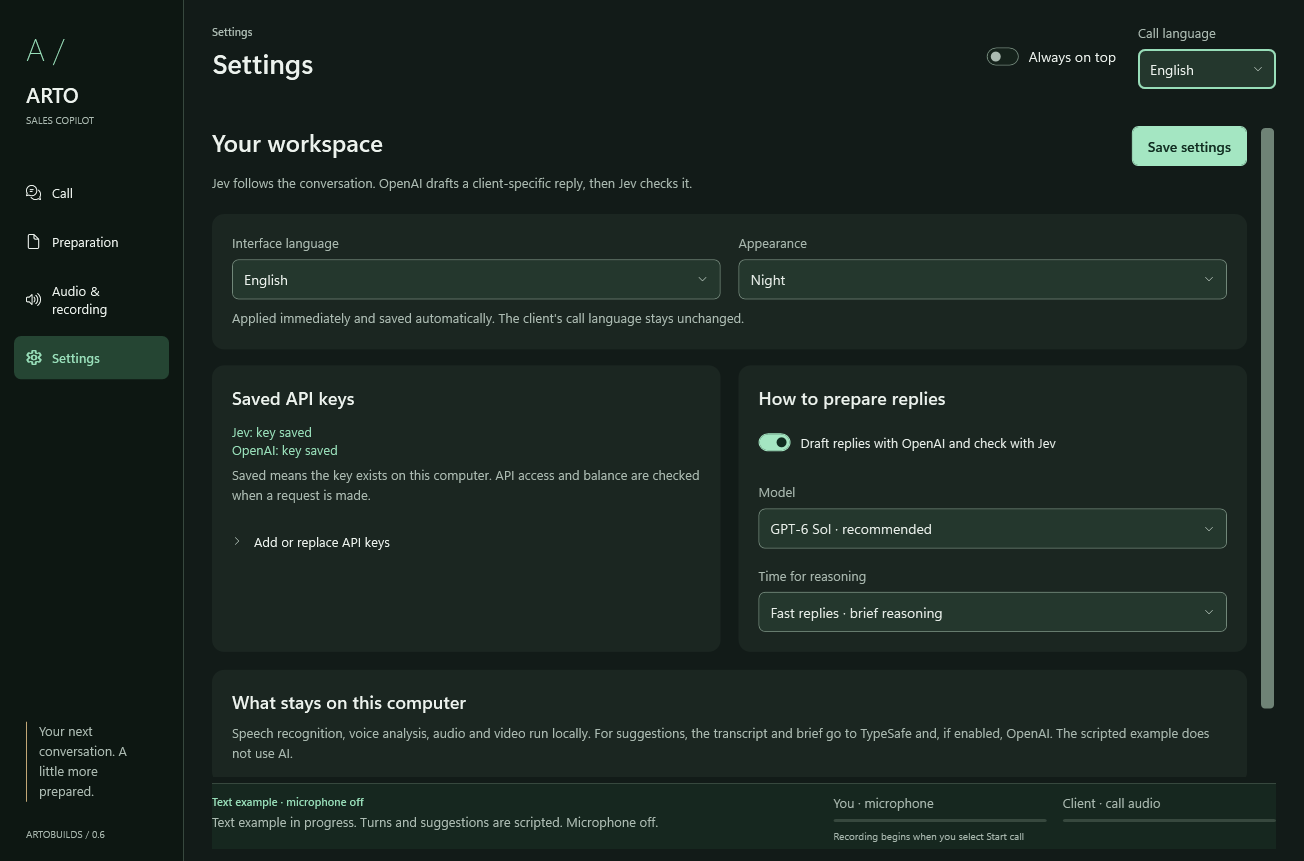
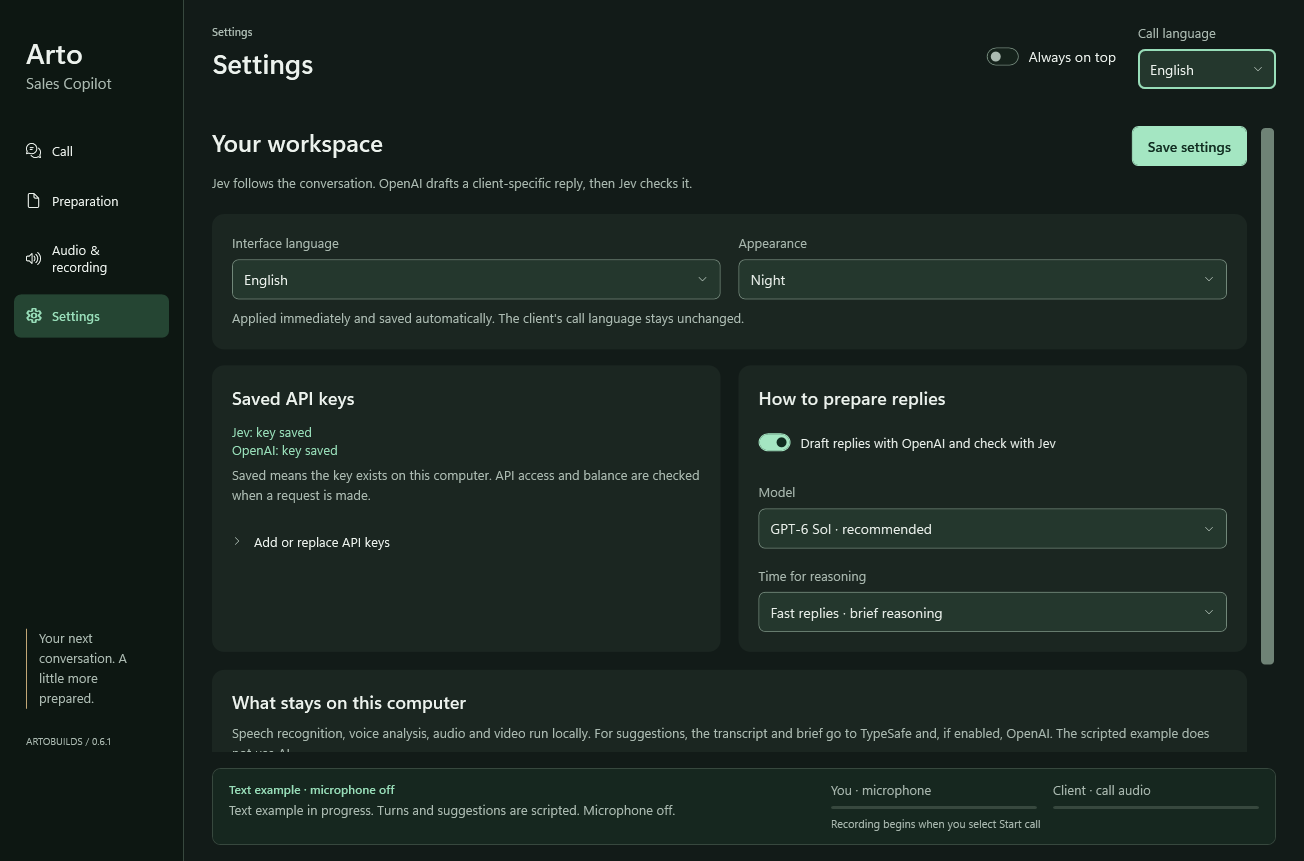
Clarify call disclosures and fix footer spacing

diff --git a/MainWindow.xaml b/MainWindow.xaml
@@ -4,10 +4,10 @@
  Background="{DynamicResource Bg}" Foreground="{DynamicResource Ink}" FontFamily="{StaticResource BodyFont}" FontSize="14"
  WindowStartupLocation="CenterScreen" Closing="OnClosing" SizeChanged="WindowSizeChanged" Loaded="SignatureLoaded">
 <Grid x:Name="RootLayout" Background="{DynamicResource Bg}">
+ <Grid.RowDefinitions><RowDefinition/><RowDefinition Height="Auto"/></Grid.RowDefinitions>
  <TabControl x:Name="Tabs" TabStripPlacement="Left" SelectionChanged="NavigationChanged">
   <TabItem Tag="&#xE8F2;" Header="{DynamicResource L010}" AutomationProperties.Name="{DynamicResource L010}">
-   <Grid x:Name="CallLayout">
-    <Grid.RowDefinitions><RowDefinition Height="Auto"/><RowDefinition/><RowDefinition Height="Auto"/><RowDefinition Height="Auto"/></Grid.RowDefinitions>
+   <Grid><Grid.RowDefinitions><RowDefinition Height="Auto"/><RowDefinition/></Grid.RowDefinitions>
     <Grid Margin="0,0,0,18"><Grid.ColumnDefinitions><ColumnDefinition/><ColumnDefinition Width="Auto"/></Grid.ColumnDefinitions>
      <StackPanel Orientation="Horizontal">
       <Button x:Name="LiveButton" AutomationProperties.Name="{DynamicResource L014}" Click="StartLive" Style="{StaticResource Primary}"><StackPanel Orientation="Horizontal"><TextBlock Text="&#xE768;" Style="{StaticResource Icon}" FontSize="12" Margin="0,0,9,0"/><TextBlock Text="{DynamicResource L014}"/></StackPanel></Button>
@@ -19,7 +19,10 @@
       <Button Content="{DynamicResource L013}" Click="ExportNotes" Style="{StaticResource Quiet}" Margin="0"/>
      </StackPanel>
     </Grid>
-    <Grid Grid.Row="1">
+    <ScrollViewer x:Name="CallViewport" Grid.Row="1" VerticalScrollBarVisibility="Auto" HorizontalScrollBarVisibility="Disabled">
+    <Grid x:Name="CallLayout" Height="{Binding ActualHeight,ElementName=CallViewport}">
+     <Grid.RowDefinitions><RowDefinition/><RowDefinition Height="Auto"/><RowDefinition Height="Auto"/></Grid.RowDefinitions>
+    <Grid>
      <Grid.ColumnDefinitions><ColumnDefinition Width="1.18*"/><ColumnDefinition Width="26"/><ColumnDefinition/></Grid.ColumnDefinitions>
      <Border x:Name="AdviceCard" Style="{StaticResource Card}" Background="{DynamicResource AdvicePanel}" BorderBrush="{DynamicResource AdviceBorder}" Padding="28">
       <DockPanel>
@@ -48,13 +51,30 @@
       </ScrollViewer>
      </DockPanel>
     </Grid>
-        <Border x:Name="VoiceCard" Grid.Row="2" Style="{StaticResource Card}" Margin="0,18,0,0" Padding="0,14,0,0" Background="Transparent" CornerRadius="0" BorderThickness="0,1,0,0" BorderBrush="{DynamicResource VoiceBorder}"><StackPanel><DockPanel><StackPanel DockPanel.Dock="Right" Orientation="Horizontal"><ComboBox x:Name="VoiceSpeakerBox" Width="140" SelectedIndex="0" SelectionChanged="VoiceSpeakerChanged" AutomationProperties.Name="{DynamicResource L031}" MinHeight="34" Margin="0,0,8,0"><ComboBoxItem x:Name="ClientVoiceItem" Content="{DynamicResource L032}" Tag="client"/><ComboBoxItem x:Name="RepVoiceItem" Content="{DynamicResource L033}" Tag="rep"/></ComboBox><Button x:Name="ResetVoiceButton" Content="{DynamicResource L034}" Click="ResetVoice" IsEnabled="False" FontSize="12" Padding="10,6" MinHeight="34" Margin="0"/></StackPanel><TextBlock x:Name="VoiceHeading" Text="{DynamicResource L035}" FontSize="17" FontWeight="SemiBold" VerticalAlignment="Center"/></DockPanel><TextBlock x:Name="VoiceStatus" Text="{DynamicResource L036}" Style="{StaticResource Help}" Margin="0,7,0,10" AutomationProperties.LiveSetting="Polite"/>
+        <Border x:Name="VoiceCard" Grid.Row="1" Style="{StaticResource Card}" Margin="0,18,0,0" Padding="0,14,0,0" Background="Transparent" CornerRadius="0" BorderThickness="0,1,0,0" BorderBrush="{DynamicResource VoiceBorder}"><StackPanel><DockPanel><StackPanel DockPanel.Dock="Right" Orientation="Horizontal"><ComboBox x:Name="VoiceSpeakerBox" Width="140" SelectedIndex="0" SelectionChanged="VoiceSpeakerChanged" AutomationProperties.Name="{DynamicResource L031}" MinHeight="34" Margin="0,0,8,0"><ComboBoxItem x:Name="ClientVoiceItem" Content="{DynamicResource L032}" Tag="client"/><ComboBoxItem x:Name="RepVoiceItem" Content="{DynamicResource L033}" Tag="rep"/></ComboBox><Button x:Name="ResetVoiceButton" Content="{DynamicResource L034}" Click="ResetVoice" IsEnabled="False" FontSize="12" Padding="10,6" MinHeight="34" Margin="0"/></StackPanel><TextBlock x:Name="VoiceHeading" Text="{DynamicResource L035}" FontSize="17" FontWeight="SemiBold" VerticalAlignment="Center"/></DockPanel><TextBlock x:Name="VoiceStatus" Text="{DynamicResource L036}" Style="{StaticResource Help}" Margin="0,7,0,10" AutomationProperties.LiveSetting="Polite"/>
           <UniformGrid Columns="4"><StackPanel Margin="0,0,12,0"><TextBlock x:Name="VoicePitchLabel" Text="{DynamicResource L037}" Style="{StaticResource Help}" ToolTip="{DynamicResource L038}"/><TextBlock x:Name="VoicePitchText" Text="—" FontSize="18" FontWeight="SemiBold" Margin="0,3,0,0"/></StackPanel><StackPanel Margin="0,0,12,0"><TextBlock x:Name="VoiceLevelLabel" Text="{DynamicResource L039}" Style="{StaticResource Help}" ToolTip="{DynamicResource L040}"/><TextBlock x:Name="VoiceLevelText" Text="—" FontSize="18" FontWeight="SemiBold" Margin="0,3,0,0"/></StackPanel><StackPanel Margin="0,0,12,0"><TextBlock x:Name="VoicePaceLabel" Text="{DynamicResource L041}" Style="{StaticResource Help}"/><TextBlock x:Name="VoicePaceText" Text="—" FontSize="18" FontWeight="SemiBold" Margin="0,3,0,0"/></StackPanel><StackPanel><TextBlock x:Name="VoicePauseLabel" Text="{DynamicResource L042}" Style="{StaticResource Help}"/><TextBlock x:Name="VoicePauseText" Text="—" FontSize="18" FontWeight="SemiBold" Margin="0,3,0,0"/></StackPanel></UniformGrid>
           <DockPanel Margin="0,9,0,0"><TextBlock x:Name="VoicePersonText" DockPanel.Dock="Right" Foreground="{DynamicResource Muted}" FontSize="11"/><TextBlock x:Name="VoiceNote" Text="{DynamicResource L043}" Foreground="{DynamicResource Muted}" FontSize="11" Margin="0,0,16,0"/></DockPanel>
         </StackPanel></Border>
 
-        <Grid Grid.Row="3" Margin="0,8,0,0"><Grid.ColumnDefinitions><ColumnDefinition/><ColumnDefinition/></Grid.ColumnDefinitions><Expander x:Name="CoverageExpander" Header="{DynamicResource L044}" Margin="0,0,16,0"><ScrollViewer MaxHeight="95" VerticalScrollBarVisibility="Auto"><WrapPanel x:Name="SignalsPanel" Margin="0,8,0,0"/></ScrollViewer></Expander><Expander x:Name="ManualExpander" Grid.Column="1" Header="{DynamicResource L045}"><DockPanel Margin="0,8,0,0"><Button Content="{DynamicResource L046}" Click="SendText" DockPanel.Dock="Right" FontSize="12" Margin="8,0,0,0"/><ComboBox x:Name="SpeakerBox" SelectedIndex="0" Width="95" DockPanel.Dock="Left" Margin="0,0,8,0" AutomationProperties.Name="{DynamicResource L047}"><ComboBoxItem Content="{DynamicResource L048}" Tag="client"/><ComboBoxItem Content="{DynamicResource L049}" Tag="rep"/></ComboBox><TextBox x:Name="ManualText" MaxLength="6000" MaxHeight="80" AutomationProperties.Name="{DynamicResource L050}" ToolTip="{DynamicResource L051}" KeyDown="ManualKeyDown"/></DockPanel></Expander></Grid>
+    <Grid Grid.Row="2" Margin="0,12,0,0">
+     <Grid.ColumnDefinitions><ColumnDefinition/><ColumnDefinition/></Grid.ColumnDefinitions>
+     <Expander x:Name="CoverageExpander" Header="{DynamicResource L044}" Style="{StaticResource ActionDisclosure}" Margin="0,0,16,0" VerticalAlignment="Top" Expanded="CallDisclosureChanged" Collapsed="CallDisclosureChanged">
+      <ScrollViewer MaxHeight="95" VerticalScrollBarVisibility="Auto"><Grid Margin="4,4,4,0">
+       <TextBlock x:Name="TopicsEmptyText" Text="{DynamicResource S007}" Style="{StaticResource Help}"/>
+       <WrapPanel x:Name="SignalsPanel"/>
+      </Grid></ScrollViewer>
+     </Expander>
+     <Expander x:Name="ManualExpander" Grid.Column="1" Header="{DynamicResource L045}" Style="{StaticResource ActionDisclosure}" VerticalAlignment="Top" Expanded="CallDisclosureChanged" Collapsed="CallDisclosureChanged">
+      <DockPanel Margin="0,4,0,0">
+       <Button Content="{DynamicResource L046}" Click="SendText" DockPanel.Dock="Right" FontSize="12" Margin="8,0,0,0"/>
+       <ComboBox x:Name="SpeakerBox" SelectedIndex="0" Width="95" DockPanel.Dock="Left" Margin="0,0,8,0" AutomationProperties.Name="{DynamicResource L047}"><ComboBoxItem Content="{DynamicResource L048}" Tag="client"/><ComboBoxItem Content="{DynamicResource L049}" Tag="rep"/></ComboBox>
+       <TextBox x:Name="ManualText" MaxLength="6000" MaxHeight="80" AutomationProperties.Name="{DynamicResource L050}" ToolTip="{DynamicResource L051}" KeyDown="ManualKeyDown"/>
+      </DockPanel>
+     </Expander>
+    </Grid>
 
+   </Grid>
+   </ScrollViewer>
    </Grid>
   </TabItem>
     <TabItem Tag="&#xE8A5;" Header="{DynamicResource L052}" AutomationProperties.Name="{DynamicResource L053}"><ScrollViewer VerticalScrollBarVisibility="Auto"><StackPanel Margin="0,0,12,0"><DockPanel><Button Content="{DynamicResource L054}" Click="SaveBrief" Style="{StaticResource Primary}" DockPanel.Dock="Right" Margin="16,0,0,0"/><TextBlock Text="{DynamicResource L055}" Style="{StaticResource Heading}"/></DockPanel><TextBlock Text="{DynamicResource L056}" Style="{StaticResource Help}" Margin="0,8,0,20"/>
@@ -126,15 +146,16 @@
    <TextBlock x:Name="PageTitle" Text="{Binding Text,ElementName=BriefTitle}" FontFamily="{StaticResource DisplayFont}" FontSize="27" FontWeight="SemiBold" Margin="0,6,0,0" TextTrimming="CharacterEllipsis" TextWrapping="NoWrap" ToolTip="{Binding Text,ElementName=BriefTitle}"/>
   </StackPanel>
  </DockPanel>
- <Border x:Name="TopStatusBox" VerticalAlignment="Bottom" Background="{DynamicResource StatusPanel}" BorderBrush="{DynamicResource Line}" BorderThickness="0,1,0,0" Padding="0,12,0,0" Margin="212,0,28,16">
+ <Border Grid.Row="1" HorizontalAlignment="Left" Width="184" Background="{DynamicResource Rail}" BorderBrush="{DynamicResource Line}" BorderThickness="0,0,1,0"/>
+ <Border x:Name="TopStatusBox" Grid.Row="1" Background="{DynamicResource StatusPanel}" BorderBrush="{DynamicResource Line}" BorderThickness="1" CornerRadius="8" Padding="16,12" Margin="212,0,28,16">
   <Grid><Grid.ColumnDefinitions><ColumnDefinition Width="1.35*"/><ColumnDefinition Width="24"/><ColumnDefinition/></Grid.ColumnDefinitions>
-   <StackPanel><TextBlock x:Name="ModeText" Text="{DynamicResource L009}" Foreground="{DynamicResource Accent}" FontWeight="SemiBold" FontSize="11"/><TextBlock x:Name="StatusText" Text="{DynamicResource L008}" AutomationProperties.LiveSetting="Polite" Style="{StaticResource Help}" Margin="0,4,0,0" MaxHeight="36" TextTrimming="CharacterEllipsis"/></StackPanel>
+   <StackPanel><TextBlock x:Name="ModeText" Text="{DynamicResource L009}" Foreground="{DynamicResource Accent}" FontWeight="SemiBold" FontSize="12"/><TextBlock x:Name="StatusText" Text="{DynamicResource L008}" AutomationProperties.LiveSetting="Polite" Style="{StaticResource Help}" Margin="0,4,0,0" MaxHeight="60" TextTrimming="CharacterEllipsis"/></StackPanel>
    <StackPanel Grid.Column="2">
     <Grid><Grid.ColumnDefinitions><ColumnDefinition/><ColumnDefinition Width="16"/><ColumnDefinition/></Grid.ColumnDefinitions>
      <StackPanel><TextBlock Text="{DynamicResource L017}" Style="{StaticResource Help}" Margin="0,0,0,5"/><ProgressBar x:Name="MicMeter" Height="3" Maximum="1" Background="{DynamicResource Line}" Foreground="{DynamicResource Accent}" AutomationProperties.Name="{DynamicResource L018}"/></StackPanel>
      <StackPanel Grid.Column="2"><TextBlock Text="{DynamicResource L019}" Style="{StaticResource Help}" Margin="0,0,0,5"/><ProgressBar x:Name="OutputMeter" Height="3" Maximum="1" Background="{DynamicResource Line}" Foreground="{DynamicResource AudioAccent}" AutomationProperties.Name="{DynamicResource L020}"/></StackPanel>
     </Grid>
-    <TextBlock x:Name="SessionMeta" Text="{DynamicResource L021}" Style="{StaticResource Help}" FontSize="10" Margin="0,7,0,0" MaxHeight="30"/>
+    <TextBlock x:Name="SessionMeta" Text="{DynamicResource L021}" Style="{StaticResource Help}" FontSize="11" LineHeight="16" Margin="0,7,0,0" MaxHeight="32" TextTrimming="CharacterEllipsis"/>
    </StackPanel>
   </Grid>
  </Border>

diff --git a/App.xaml b/App.xaml
@@ -49,11 +49,35 @@
 <ContentPresenter ContentSource="Header"/>
 </ToggleButton><ContentPresenter x:Name="ExpandSite" Visibility="Collapsed" ContentSource="Content" Margin="0,4,0,0"/>
 </StackPanel><ControlTemplate.Triggers><Trigger Property="IsExpanded" Value="True"><Setter TargetName="ExpandSite" Property="Visibility" Value="Visible"/></Trigger></ControlTemplate.Triggers></ControlTemplate></Setter.Value></Setter></Style>
+  <Style x:Key="ActionDisclosure" TargetType="Expander" BasedOn="{StaticResource {x:Type Expander}}">
+   <Setter Property="Template"><Setter.Value><ControlTemplate TargetType="Expander"><StackPanel>
+    <ToggleButton x:Name="HeaderSite" Content="{TemplateBinding Header}" MinHeight="44" Cursor="Hand"
+     AutomationProperties.Name="{Binding Header,RelativeSource={RelativeSource TemplatedParent}}"
+     IsChecked="{Binding IsExpanded,RelativeSource={RelativeSource TemplatedParent},Mode=TwoWay}"
+     Foreground="{TemplateBinding Foreground}" FocusVisualStyle="{StaticResource FocusVisual}">
+     <ToggleButton.Template><ControlTemplate TargetType="ToggleButton">
+      <Border x:Name="HeaderChrome" Background="{DynamicResource Input}" BorderBrush="{DynamicResource ControlLine}" BorderThickness="1" CornerRadius="7" Padding="12,10">
+       <Grid><Grid.ColumnDefinitions><ColumnDefinition/><ColumnDefinition Width="Auto"/><ColumnDefinition Width="12"/></Grid.ColumnDefinitions>
+        <ContentPresenter VerticalAlignment="Center" Margin="0,0,10,0" TextElement.FontWeight="SemiBold"/>
+        <TextBlock x:Name="ActionText" Grid.Column="1" Text="{DynamicResource S005}" Foreground="{DynamicResource Muted}" FontSize="12" VerticalAlignment="Center" Margin="0,0,10,0"/>
+        <Path x:Name="Arrow" Grid.Column="2" Data="M 1,1 L 6,6 L 11,1" Stroke="{DynamicResource Ink}" StrokeThickness="1.6" Width="12" Height="8" VerticalAlignment="Center" RenderTransformOrigin="0.5,0.5"/>
+       </Grid>
+      </Border>
+      <ControlTemplate.Triggers>
+       <Trigger Property="IsChecked" Value="True"><Setter TargetName="ActionText" Property="Text" Value="{DynamicResource S006}"/><Setter TargetName="HeaderChrome" Property="Background" Value="{DynamicResource Selected}"/><Setter TargetName="Arrow" Property="RenderTransform"><Setter.Value><RotateTransform Angle="180"/></Setter.Value></Setter></Trigger>
+       <Trigger Property="IsMouseOver" Value="True"><Setter TargetName="HeaderChrome" Property="Background" Value="{DynamicResource Hover}"/><Setter TargetName="HeaderChrome" Property="BorderBrush" Value="{DynamicResource Accent}"/></Trigger>
+       <Trigger Property="IsKeyboardFocused" Value="True"><Setter TargetName="HeaderChrome" Property="BorderBrush" Value="{DynamicResource FocusRing}"/></Trigger>
+      </ControlTemplate.Triggers>
+     </ControlTemplate></ToggleButton.Template>
+    </ToggleButton>
+    <ContentPresenter x:Name="ExpandSite" Visibility="Collapsed" ContentSource="Content" Margin="0,8,0,0"/>
+   </StackPanel><ControlTemplate.Triggers><Trigger Property="IsExpanded" Value="True"><Setter TargetName="ExpandSite" Property="Visibility" Value="Visible"/></Trigger></ControlTemplate.Triggers></ControlTemplate></Setter.Value></Setter>
+  </Style>
   <Style TargetType="TabControl"><Setter Property="Template"><Setter.Value><ControlTemplate TargetType="TabControl">
 <Grid><Grid.ColumnDefinitions><ColumnDefinition Width="184"/><ColumnDefinition/></Grid.ColumnDefinitions>
 <Border Background="{DynamicResource Rail}" BorderBrush="{DynamicResource Line}" BorderThickness="0,0,1,0"><DockPanel Margin="14,26,14,20">
-<StackPanel DockPanel.Dock="Top" Margin="12,0,0,44"><TextBlock Text="A /" Foreground="{DynamicResource Accent}" FontFamily="{StaticResource DisplayFont}" FontSize="32" FontWeight="Light"/><TextBlock Text="ARTO" Foreground="{DynamicResource Ink}" FontSize="21" FontWeight="SemiBold" Margin="0,12,0,0"/><TextBlock Text="SALES COPILOT" Foreground="{DynamicResource Muted}" FontSize="10" Margin="0,5,0,0"/></StackPanel>
-<StackPanel DockPanel.Dock="Bottom" Margin="12,20,10,0"><Border BorderBrush="{DynamicResource Metal}" BorderThickness="1,0,0,0" Padding="12,0"><TextBlock Text="{DynamicResource S000}" Style="{DynamicResource Help}"/></Border><TextBlock Text="ARTOBUILDS / 0.6" Foreground="{DynamicResource Muted}" FontSize="10" Margin="0,26,0,0"/></StackPanel>
+<StackPanel DockPanel.Dock="Top" Margin="12,8,0,36"><TextBlock Text="Arto" Foreground="{DynamicResource Ink}" FontFamily="{StaticResource DisplayFont}" FontSize="28" FontWeight="SemiBold"/><TextBlock Text="Sales Copilot" Foreground="{DynamicResource Muted}" FontSize="15" Margin="0,2,0,0"/></StackPanel>
+<StackPanel DockPanel.Dock="Bottom" Margin="12,20,10,0"><Border BorderBrush="{DynamicResource Metal}" BorderThickness="1,0,0,0" Padding="12,0"><TextBlock Text="{DynamicResource S000}" Style="{DynamicResource Help}"/></Border><TextBlock Text="ARTOBUILDS / 0.6.1" Foreground="{DynamicResource Muted}" FontSize="10" Margin="0,26,0,0"/></StackPanel>
 <StackPanel IsItemsHost="True" KeyboardNavigation.TabIndex="0" KeyboardNavigation.DirectionalNavigation="Cycle" VerticalAlignment="Top"/>
 </DockPanel></Border>
 <ContentPresenter x:Name="PART_SelectedContentHost" Grid.Column="1" Margin="28,0,28,0" ContentSource="SelectedContent" TextElement.Foreground="{DynamicResource Ink}" TextElement.FontWeight="Normal" KeyboardNavigation.TabNavigation="Local"/>

diff --git a/DisclosureTests.cs b/DisclosureTests.cs
@@ -1,0 +1,50 @@
+using System.IO;
+using System.Windows;
+using System.Windows.Automation.Peers;
+using System.Windows.Automation.Provider;
+using System.Windows.Controls;
+using System.Windows.Controls.Primitives;
+using System.Windows.Media;
+
+namespace ArtoSalesCopilot;
+
+public partial class MainWindow
+{
+    async Task CheckDisclosureLayout(string directory,List<string> checks)
+    {
+        void Check(bool pass,string label){if(!pass)throw new InvalidOperationException("Disclosure check failed: "+label);checks.Add("PASS "+label);}
+        Rect Bounds(FrameworkElement element)=>element.TransformToAncestor(RootLayout).TransformBounds(new Rect(element.RenderSize));
+        Tabs.SelectedIndex=0;ClearConversation();
+        Check(TopicsEmptyText.Visibility==Visibility.Visible,"empty topic disclosure explains when topics appear");
+        ShowAdvice(Demo.Advice(3,"en"));
+        Check(TopicsEmptyText.Visibility==Visibility.Collapsed,"topic explanation clears when analysis is present");
+        foreach(var (language,index) in new[]{("ru",0),("uk",1),("en",2)})
+        foreach(var (theme,themeIndex) in new[]{("dark",0),("light",1)})
+        foreach(var size in new[]{(1000d,720d),(1320d,900d)})
+        {
+            InterfaceLanguageBox.SelectedIndex=index;ThemeBox.SelectedIndex=themeIndex;Width=size.Item1;Height=size.Item2;
+            foreach(var expanded in new[]{false,true})
+            {
+                CoverageExpander.IsExpanded=ManualExpander.IsExpanded=expanded;UpdateLayout();await Task.Delay(200);
+                if(expanded)CallViewport.ScrollToEnd();else CallViewport.ScrollToTop();UpdateLayout();
+                var suffix=$"{language}/{theme}/{Width:F0}/"+(expanded?"open":"closed");
+                Check(AdviceScroll.ActualHeight>=80,"suggested reply retains a readable scroll area: "+suffix);
+                Check(Bounds(LiveButton).Top>=Bounds(HeaderPanel).Bottom&&Bounds(LiveButton).Bottom<=Bounds(CallViewport).Top,"start and stop stay visible above the scrolling conversation: "+suffix);
+                Check(Bounds(ManualExpander).Bottom<=Bounds(TopStatusBox).Top-8&&Bounds(CoverageExpander).Bottom<=Bounds(TopStatusBox).Top-8&&Bounds(VoiceCard).Bottom<=Bounds(CoverageExpander).Top,"voice and disclosures do not overlap footer: "+suffix);
+                Check(Bounds(ModeText).Left>=Bounds(TopStatusBox).Left+16&&Bounds(SessionMeta).Bottom<=Bounds(TopStatusBox).Bottom-12&&Bounds(TopStatusBox).Bottom<=RootLayout.ActualHeight-16,"status text and audio have complete inner and outer spacing: "+suffix);
+                foreach(var expander in new[]{CoverageExpander,ManualExpander})
+                {
+                    expander.ApplyTemplate();var header=(ToggleButton)expander.Template.FindName("HeaderSite",expander);header.ApplyTemplate();
+                    var action=(TextBlock)header.Template.FindName("ActionText",header);
+                    Check(header.ActualHeight>=44&&action.Text==T(expanded?"Скрыть":"Открыть"),"disclosure action is labeled and has a full click target: "+expander.Name+"/"+suffix);
+                }
+                if(language=="ru")Capture(Path.Combine(directory,$"refined-{theme}-{Width:F0}-{(expanded?"open":"closed")}.png"));
+            }
+        }
+        var toggle=(ToggleButton)ManualExpander.Template.FindName("HeaderSite",ManualExpander);
+        toggle.Focus();var peer=new ToggleButtonAutomationPeer(toggle);
+        ((IToggleProvider)peer.GetPattern(PatternInterface.Toggle)).Toggle();UpdateLayout();
+        Check(!ManualExpander.IsExpanded&&ReferenceEquals(System.Windows.Input.Keyboard.FocusedElement,toggle),"native disclosure toggle collapses and retains keyboard focus");
+        CoverageExpander.IsExpanded=ManualExpander.IsExpanded=false;
+    }
+}

diff --git a/MainWindow.xaml.cs b/MainWindow.xaml.cs
@@ -93,7 +93,7 @@ public partial class MainWindow : Window
     });
     void CopyLine(object s,RoutedEventArgs e)=>Guard(()=>{Clipboard.SetText(SayText.Text);ShowFeedback(T("Скопировано"));});
     void SetButtons() {DemoButton.IsEnabled=!busy&&!finalizing;AiDemoButton.IsEnabled=!busy&&!finalizing;LiveButton.IsEnabled=!busy&&!finalizing;NewButton.IsEnabled=!busy&&!finalizing;LanguageBox.IsEnabled=!busy&&!finalizing;VoiceEnabledBox.IsEnabled=!busy&&!finalizing;StopButton.IsEnabled=busy&&!finalizing;MicrophoneBox.IsEnabled=OutputBox.IsEnabled=VideoSourceBox.IsEnabled=!busy&&!finalizing;}
-    void ClearConversation() {turns.Clear();TranscriptPanel.Children.Clear();TranscriptPanel.Children.Add(EmptyTranscript);SetUi(TurnCount,()=>T("0 реплик"));SignalsPanel.Children.Clear();aiRequests=0;inputTokens=0;SetUi(AdviceTitle,()=>T("Подсказка появится здесь"));SetUi(SayText,()=>T("Заполни «Подготовку», выбери устройства в «Звук и запись», затем нажми «Начать звонок»."));SetUi(AdviceMeta,()=>T("Подсказок пока нет"));SetUi(StageText,()=>T("Знакомство"));ResetVoiceState();}
+    void ClearConversation() {turns.Clear();TranscriptPanel.Children.Clear();TranscriptPanel.Children.Add(EmptyTranscript);SetUi(TurnCount,()=>T("0 реплик"));SignalsPanel.Children.Clear();aiRequests=0;inputTokens=0;SetUi(AdviceTitle,()=>T("Подсказка появится здесь"));SetUi(SayText,()=>T("Заполни «Подготовку», выбери устройства в «Звук и запись», затем нажми «Начать звонок»."));SetUi(AdviceMeta,()=>T("Подсказок пока нет"));SetUi(StageText,()=>T("Знакомство"));TopicsEmptyText.Visibility=Visibility.Visible;ResetVoiceState();}
     void NewConversation(object s,RoutedEventArgs e) {if(busy)return;if(turns.Count>0&&MessageBox.Show(this,T("Очистить текущий разговор на экране? Сначала сохрани заметки, если они нужны."),T("Новый звонок"),MessageBoxButton.YesNo)!=MessageBoxResult.Yes)return;scripted=false;ClearConversation();SetUi(ModeText,()=>T("Микрофон выключен"));SetUi(StatusText,()=>T("Новый разговор. Проверь подготовку клиента и устройства."));SetUi(SessionMeta,()=>T("Запись начнётся после «Начать звонок»"));}
     void Begin(bool demo,bool isLive,bool clear)
     {
@@ -216,6 +216,7 @@ public partial class MainWindow : Window
             var chip=new Border{Child=text,Padding=new(10,7,10,7),Margin=new(0,0,7,7),CornerRadius=new(5)};
             chip.SetResourceReference(Border.BackgroundProperty,"Chip");UiText.Bind(chip,FrameworkElement.ToolTipProperty,()=>T("Оценка наличия сведений: {0:P0}. Это не вероятность продажи. «Не подтверждено» также может означать «не применимо».",s.Value));SignalsPanel.Children.Add(chip);
         }
+        TopicsEmptyText.Visibility=SignalsPanel.Children.Count==0?Visibility.Visible:Visibility.Collapsed;
     }
     async void StopClicked(object s,RoutedEventArgs e){StopSession();SetUi(StatusText,()=>T("Останавливаем запись и сохраняем файлы…"));await recordingFinalization;SetUi(StatusText,()=>T(stopSummary));}
     void StopSession()

diff --git a/Interface.cs b/Interface.cs
@@ -8,11 +8,13 @@ public partial class MainWindow
     {
         if(!ready)return;
         bool compact=ActualHeight<820 || ActualWidth<1150;
+        bool detailsOpen=CoverageExpander.IsExpanded||ManualExpander.IsExpanded;
+        CallLayout.MinHeight=detailsOpen?(compact?552:540):(compact?372:502);
         RootLayout.Margin=new(0);
         PageTitle.FontSize=compact?22:27;
         HeaderPanel.Margin=new(212,compact?12:24,28,0);
-        TopStatusBox.Padding=new(0,10,0,0);
-        TopStatusBox.Margin=new(212,0,28,12);
+        TopStatusBox.Padding=new(16,12,16,12);
+        TopStatusBox.Margin=new(212,0,28,16);
         VoiceCard.Padding=new(0,compact?10:14,0,0);
         VoiceCard.Margin=new(0,compact?12:18,0,0);
         VoiceStatus.Margin=compact?new(0,4,0,6):new(0,7,0,10);
@@ -23,7 +25,17 @@ public partial class MainWindow
         VoiceHeading.ToolTip=VoiceNote.Text+"\n"+VoicePersonText.Text;
         CoverageExpander.Padding=ManualExpander.Padding=new(0);
         Tabs.ApplyTemplate();
-        if(Tabs.Template.FindName("PART_SelectedContentHost",Tabs) is System.Windows.Controls.ContentPresenter host)host.Margin=new(28,compact?90:126,28,compact?76:84);
+        if(Tabs.Template.FindName("PART_SelectedContentHost",Tabs) is System.Windows.Controls.ContentPresenter host)host.Margin=new(28,compact?90:126,28,16);
+    }
+    void CallDisclosureChanged(object sender,RoutedEventArgs e)
+    {
+        if(!ready)return;
+        WindowSizeChanged(this,null!);
+        Dispatcher.BeginInvoke(System.Windows.Threading.DispatcherPriority.Loaded,()=>
+        {
+            if(CoverageExpander.IsExpanded||ManualExpander.IsExpanded)((System.Windows.Controls.Expander)sender).BringIntoView();
+            else CallViewport.ScrollToTop();
+        });
     }
     void GoAudio(object s, RoutedEventArgs e) => Tabs.SelectedIndex = 2;
     void GoCall(object s, RoutedEventArgs e) {Tabs.SelectedIndex = 0;RenderVoice();}

diff --git a/SignatureTests.cs b/SignatureTests.cs
@@ -54,6 +54,7 @@ public partial class MainWindow
                 }
             }
         }
+        await CheckDisclosureLayout(directory,checks);
         InterfaceLanguageBox.SelectedIndex=2;ThemeBox.SelectedIndex=0;Tabs.SelectedIndex=0;Width=1320;Height=900;UpdateLayout();await Task.Delay(220);
         var dpi=VisualTreeHelper.GetDpi(this);checks.Add($"INFO actual window DPI {dpi.PixelsPerInchX:F0}; 100/125/150% images below are WPF raster checks, not a change to Windows display settings");
         foreach(var scale in new[]{1d,1.25,1.5})

diff --git a/DESIGN.md b/DESIGN.md
@@ -1,4 +1,4 @@
-# Arto Signature — interface 0.6
+# Arto Signature — interface 0.6.1
 
 An operator should see the client, the next useful phrase and the state of the call without searching through a settings form. This redesign changes the shell and information hierarchy while retaining the native WPF controls and existing call logic.
 
@@ -43,7 +43,11 @@ No React, web view, SaaS framework, web CSS or new NuGet dependency was introduc
 
 `UiMotion` animates only opacity and a four-pixel translation with ease-out. Snapshot-and-replace prevents queues. It respects `SystemParameters.ClientAreaAnimation`, high contrast and keyboard input. Windows preference changes refresh chrome/colors. Save/copy feedback appears briefly without changing focus. Advice updates retain focus and fixed panel geometry; longer replies scroll inside the advice area.
 
-The narrow metal mark and inset phrase rule are the signature detail. They reveal once when actual advice is shown. There are no running decorative waveforms, fake levels or invented sales probabilities. Demo voice values remain em dashes; scripted advice has no confidence number in its tooltip. Audio meters still use the existing real capture values.
+The inset phrase rule marks the suggested reply. The rail uses the plain Arto / Sales Copilot wordmark; the ambiguous A-slash decoration was removed in 0.6.1. There are no running decorative waveforms, fake levels or invented sales probabilities. Demo voice values remain em dashes; scripted advice has no confidence number in its tooltip. Audio meters still use the existing real capture values.
+
+The two call disclosures now have outlined 44-pixel headers, explicit localized Open/Hide actions, a rotating chevron and hover/focus feedback. Empty topics explain when content will appear. Capture status occupies its own automatic-height grid row with complete internal padding and an outer bottom gap. It no longer relies on a hardcoded reserved margin. On short windows, expanded content scrolls the working area instead of squeezing the suggestion away; the capture footer stays visible.
+
+Latest refinement: [collapsed call controls](docs/redesign/after/refined-light-1320-closed.png), [both controls open](docs/redesign/after/refined-light-1320-open.png), [compact expanded area](docs/redesign/after/refined-light-1000-open.png).
 
 Four native tabs retain their existing indices and handlers. Keys, providers, model identifiers, API payloads, audio capture, recording, voice algorithms and storage contracts are unchanged. API key values remain hidden, with saved-state text kept distinct from API availability.
 
@@ -60,7 +64,7 @@ Four native tabs retain their existing indices and handlers. Keys, providers, mo
 
 ## Real application evidence
 
-All images below come from the executable's own synthetic UI fixtures. Before images are from 0.5; after images are from 0.6. The screenshot exporter now captures the client area exactly, so the old unused bottom strip is absent.
+All images below come from the executable's own synthetic UI fixtures. Before images are from 0.5; after images are from 0.6.1. The screenshot exporter now captures the client area exactly, so the old unused bottom strip is absent.
 
 | Screen | Before | After |
 | --- | --- | --- |
@@ -71,6 +75,6 @@ All images below come from the executable's own synthetic UI fixtures. Before im
 | Preparation · Day | ![Before preparation](docs/redesign/before/preparation-light.png) | ![After preparation](docs/redesign/after/preparation-light.png) |
 | Settings · Day | ![Before settings](docs/redesign/before/settings-light.png) | ![After settings](docs/redesign/after/settings-light.png) |
 
-[Interaction demonstration](docs/redesign/arto-signature-interactions.mp4): rendered frames from the real WPF window with fictional content, not a recording of the user's desktop or microphone. Includes advice update, feedback presentation, audio disclosure, theme and language switching. The feedback segment demonstrates presentation; it does not prove a clipboard write. Native keyboard/dropdown behavior was checked separately.
+[Initial 0.6 interaction demonstration](docs/redesign/arto-signature-interactions.mp4): rendered frames from the real WPF window with fictional content, not a recording of the user's desktop or microphone. This earlier video predates the 0.6.1 wordmark, footer and disclosure refinements shown in the current screenshots. Includes advice update, feedback presentation, audio disclosure, theme and language switching. The feedback segment demonstrates presentation; it does not prove a clipboard write. Native keyboard/dropdown behavior was checked separately.
 
 Detailed test scope and remaining limitations: [VERIFICATION.md](VERIFICATION.md).

diff --git a/VERIFICATION.md b/VERIFICATION.md
@@ -1,16 +1,18 @@
-# Preview 0.6 verification
+# Preview 0.6.1 verification
 
 The public source uses neutral briefing defaults, relative runtime paths and user-selected key imports. It excludes the developer's installed application, personal profile, provider-account diagnostics, credentials, recordings and history.
 
 ## Automated checks
 
-Validation on 2026-09-26 used .NET SDK 10.0.301 and the existing NAudio 2.2.1 dependency. Release publication, `--self-test` and `--ui-smoke` run on the published executable. The final accepted run contains 36 offline checks and 153 UI checks, plus one informational DPI line. Test fixtures use fictional content and isolated storage; no microphone, desktop recording or live provider request is involved.
+Validation on 2026-09-26 used .NET SDK 10.0.301 and the existing NAudio 2.2.1 dependency. Release publication, `--self-test` and `--ui-smoke` run on the published executable. The final accepted run contains 36 offline checks and 300 UI checks, plus one informational DPI line. Test fixtures use fictional content and isolated storage; no microphone, desktop recording or live provider request is involved.
 
 The checks cover provider request contracts, bounded context, reply verification, DPAPI storage with fake keys, recording arithmetic, acoustic baselines, selected-file key imports, RU/UK/EN in both Day/Night themes, 1000×720 and 1320×900 windows, targeted text/control contrast and preference persistence. Appearance changes preserve unfinished briefs, unrelated settings, conversation language and encrypted keys.
 
 The redesign adds checks for native automation names, stable keyboard focus after a suggestion, the immediate reduced-motion path, repeated animations settling without a queue, non-modal audio instructions, all four compact page viewports and transient save feedback. The animation test waits for the WPF render clock within a bounded interval; a fixed 230 ms wall-clock delay was unreliable in a hidden window under load. Viewport tests and screenshots do not establish that every possible long user-supplied value fits.
 
 The actual Windows window ran at 96 DPI (100%). WPF raster exports at 100%, 125% and 150% checked vector rendering only. They are **not** a Windows display-scale change or multi-monitor acceptance test. The optional Python acoustic suite was not rerun for this presentation-only change.
+
+Version 0.6.1 adds regression checks for both call disclosures open/closed in all six language/theme combinations and both window sizes. They verify Open/Hide labels, 44-pixel click targets, retained reply viewport, footer/voice separation, full footer padding, empty topics and native toggle focus. In a compact open state, the working-area scrollbar intentionally reveals the lower controls; Start/Stop and the footer stay fixed.
 
 ## Native interaction checks
 

diff --git a/README.md b/README.md
@@ -2,7 +2,7 @@
 
 A native Windows assistant that keeps suggested replies, a transcript and local voice observations beside your call.
 
-**Preview 0.6 · Arto Signature · Windows · .NET 10 / WPF · RU / UK / EN · Day / Night themes**
+**Preview 0.6.1 · Arto Signature · Windows · .NET 10 / WPF · RU / UK / EN · Day / Night themes**
 
 ![Call view in the light theme, using fictional demo content](docs/images/call-light.png)
 
@@ -34,7 +34,7 @@ If PowerShell blocks scripts, review the script and use a policy permitted by yo
 
 Select **Посмотреть пример** (View example). The initial interface is Russian; change it in **Настройки → Язык интерфейса**. The Day/Night selector is alongside it. Preferences apply immediately and save automatically.
 
-Version 0.6 introduces persistent side navigation, a client-context header, a focused reply area and a quieter transcript. The voice strip stays visible at 1000×720; in the compact layout, its explanation and speaker-reference detail move to the voice heading's tooltip. Settings retain the same behavior and storage. See the [design decisions, concepts and before/after evidence](DESIGN.md).
+Version 0.6 introduces persistent side navigation, a client-context header, a focused reply area and a quieter transcript. Version 0.6.1 makes the two call disclosures explicit Open/Hide buttons, gives capture status a padded footer, and uses a simple Arto / Sales Copilot wordmark. At 1000×720, opening extra details scrolls the working area instead of reducing the reply to zero height; capture status remains fixed below it. In the compact layout, secondary voice explanations move to the voice heading's tooltip. Settings retain the same behavior and storage. See the [design decisions, concepts and before/after evidence](DESIGN.md).
 
 Optional: `./build.ps1 -Shortcut` creates a desktop shortcut only if that shortcut does not already exist. Use a writable project directory. Do not distribute your populated `app/` directory.
 
